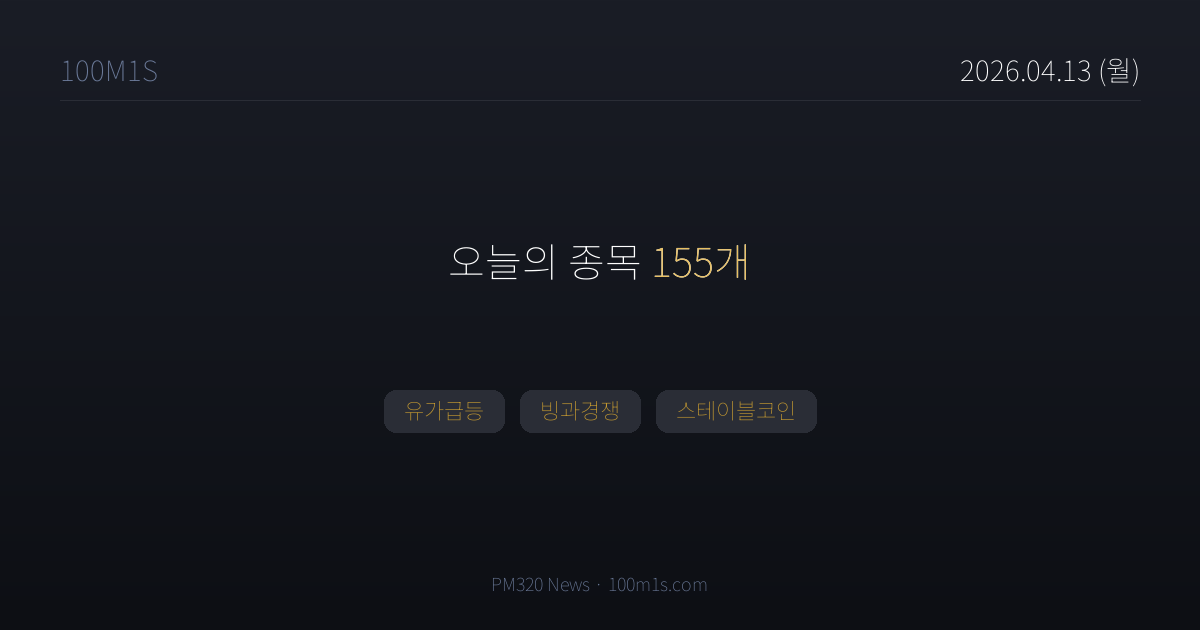
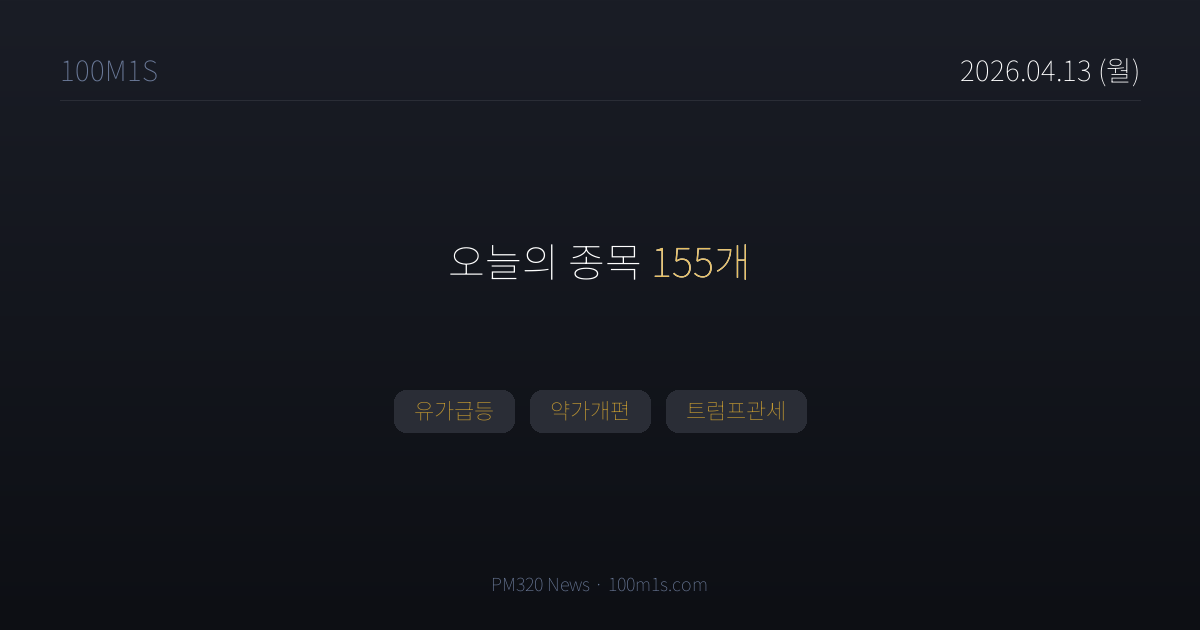
chore(news): 2026-04-13T17:42 pipeline

Changed region(s): [[0.3083, 0.6032, 0.6783, 0.6937]]

diff --git a/news/2026-04-13.html b/news/2026-04-13.html
@@ -4,7 +4,7 @@
 <meta charset="UTF-8">
 <title>4월 13일 (월) 뉴스 — 100M1S</title>
 <meta property="og:title" content="4월 13일 (월) · 종목 155개">
-<meta property="og:description" content="유가급등, 빙과경쟁, 스테이블코인">
+<meta property="og:description" content="유가급등, 약가개편, 트럼프관세">
 <meta property="og:image" content="https://100m1s.com/og/2026-04-13.png">
 <meta property="og:image:width" content="1200">
 <meta property="og:image:height" content="630">
